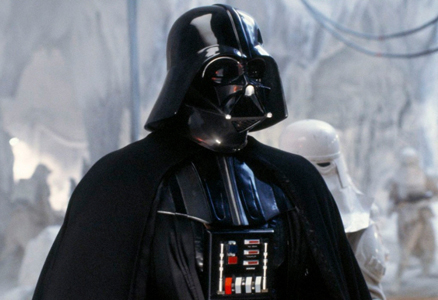
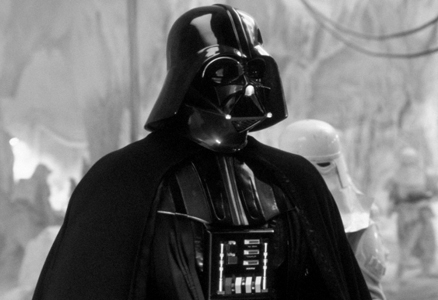
Cálculo B, R e image greyscale

diff --git a/main.js b/main.js
@@ -1,4 +1,7 @@
 // init
+var width = 438;
+var height = 300;
+
 var mainCanvas = document.getElementById('mainCanvas');
 var mainCtx = mainCanvas.getContext('2d');
 var shadowCanvas = document.getElementById('shadowCanvas');
@@ -6,6 +9,10 @@ var shadowCtx = shadowCanvas.getContext('2d');
 
 var imageObj = new Image();
 var $message = document.getElementById('message');
+
+var $histBack = document.getElementById('histBack');
+var $histFore = document.getElementById('histFore');
+
 
 // controle
 const l = 30; // lado do quadrado de de inclusão
@@ -20,7 +27,6 @@ imageObj.onload = function() {
 };
 
 // events
-
 window.addEventListener("load", function() {
 	updateMessage();
 });
@@ -28,19 +34,24 @@ window.addEventListener("load", function() {
 mainCanvas.addEventListener('mousemove', function(evt) {
     marcaregiao(mainCanvas, mainCtx, evt);
 
-    // Teste selação de pixel de shadow e de posição do mouse de maincanvas
-	var mousePos = getMousePos(mainCanvas, evt);
-    var x = parseInt(mousePos.x);
-    var y = parseInt(mousePos.y);
-
-	var c = getColor(x, y, shadowCtx);
-	document.body.style.background = 'rgba('+c[0]+','+c[1]+','+c[2]+',1)';
+ //    // Teste selação de pixel de shadow e de posição do mouse de maincanvas
+	// var mousePos = getMousePos(mainCanvas, evt);
+ //    var x = parseInt(mousePos.x);
+ //    var y = parseInt(mousePos.y);
+	// var c = getColor(x, y, shadowCtx);
+	// document.body.style.background = 'rgba('+c[0]+','+c[1]+','+c[2]+',1)';
 
 }, false);
 
 mainCanvas.addEventListener('click', function() {
-   ativaMarcaRegiao = !ativaMarcaRegiao; 
+   ativaMarcaRegiao = !ativaMarcaRegiao;
+
+	if(!ativaMarcaRegiao) {
+		execCut();
+	}
+
 });
+
 
 document.addEventListener('keyup', function(e) {
 	var c = e.which;
@@ -86,9 +97,9 @@ function drawCircle(x, y, ctx) {
     ctx.beginPath();
     ctx.rect(x-l/4, y-l/4, l/2, l/2);
     if(marcarBackground) {
-    	ctx.fillStyle = "red";
+    	ctx.fillStyle = "blue";
     } else if(marcarForeground) {
-    	ctx.fillStyle = "green";
+    	ctx.fillStyle = "red";
     }
     ctx.fill();
 }
@@ -96,10 +107,10 @@ function drawCircle(x, y, ctx) {
 function updateMessage() {
 	if(marcarForeground) {
 		$message.innerHTML = 'Seleção FOREGROUND';
-		$message.style.background = 'green';	
+		$message.style.background = 'red';	
 	} else if(marcarBackground) {
 		$message.innerHTML = 'Seleção BACKGROUND';
-		$message.style.background = 'red';	
+		$message.style.background = 'blue';	
 	} else {
 		$message.innerHTML = '';
 	} 
@@ -121,9 +132,9 @@ var M = (function() {
 		this._m[x][y] = 1;
 	}
 
-	M.prototype.remPixel = function(x, y) {
-	    if(this._m[x][y] !== undefined) this._m[x][y] = 0;
-	}
+	// M.prototype.remPixel = function(x, y) {
+	//     if(this._m[x][y] !== undefined) this._m[x][y] = 0;
+	// }
 
 	M.prototype.getPixel = function(x, y) {
 		if(this._m[x] === undefined 
@@ -134,6 +145,31 @@ var M = (function() {
 	}
 
 	return M;
+
+})();
+
+// Matrix 4-d. Verifica conexão em dois pontos
+var M4 = (function() {
+
+	function M4() {
+		this._m4 = [];
+	}
+
+	M4.prototype.addPair = function(xa, ya, xb, yb) {
+	    if(this._m4[xa] == undefined) this._m4[xa] = {};
+	    if(this._m4[xa][ya] == undefined) this._m4[xa][ya] = new M();
+	    this._m4[xa][ya].addPixel(xb, yb);
+	}
+
+	M4.prototype.getPair = function(xa, ya, xb, yb) {
+		if(this._m4[xa] === undefined 
+			|| this._m4[xa][ya] === undefined) {
+			return 0;
+		}
+		return this._m4[xa][ya].getPixel(xb, yb);
+	}
+
+	return M4;
 
 })();
 
@@ -168,5 +204,137 @@ function addRect(x, y, isObj) {
 function getColor(x, y, ctx) {
   var pixel = ctx.getImageData(x, y, 1, 1);
   var data = pixel.data;
-  return [data[0], data[1], data[2], (data[3] / 255)]
+  // Considera imagem grey scale
+  // return [data[0], data[1], data[2], (data[3] / 255)]
+  return data[0];
 }
+
+// Segmentação...
+
+function execCut() {
+
+	//// Geração histogramas...
+	histBack = [];
+	histFore = [];
+	for(i = 0; i < width; i++) {
+		for(j = 0; j < height; j++) {
+			var c = getColor(i, j, shadowCtx);
+			if(MB.getPixel(i, j)) {
+				if(histBack[c] === undefined) histBack[c] = 0;
+				histBack[c] += 1;
+			}
+			if(MF.getPixel(i, j)) {
+				if(histFore[c] === undefined) histFore[c] = 0;
+				histFore[c] += 1; 
+			}
+		}
+	}
+	// add zeros para frequencia nao existentes
+	for(i = 0; i < 256; i++) {
+		if(histBack[i] === undefined) histBack[i] = 0;
+		if(histFore[i] === undefined) histFore[i] = 0;
+	}
+	
+	// atualiza view de histograma	
+	$histBack.innerHTML = histBack.join(',');
+	$histFore.innerHTML = histFore.join(',');
+	updateHist();
+
+	// soma (qtd amostras)
+	somaBack = histBack.reduce((a,b)=>a+b, 0);
+	somaFore = histFore.reduce((a,b)=>a+b, 0);
+		
+	// R("obj") - penalties para obj
+	function RFore(v) {
+		return 1 - Math.exp( -1 * (histFore[v] / somaFore) );
+	}
+
+	// R("bkg") - penalties para "bkg"
+	function RBack(v) {
+		return 1 - Math.exp( -1 * (histBack[v] / somaBack) );
+	}
+	// Bpq - boundary penalty
+	function B(p, q) {
+		// Penalização linear independente do par de pixel
+		// deveria: penalizar mais por descontinuidade em 
+		// pixel semelhantes (ruído) e penalizar menos por
+		// descontinuidades em pixel diferentes
+		return Math.exp( -1 * Math.abs(p-q)/255 );
+	}
+
+	//// Vértices....
+
+	var V = []; // type: S, T ou p | type p com posições x,y e valor v
+
+	// S - nodo source 
+	V.push({ type: 'S'});
+	// T - nodo sink
+	V.push({ type: 'T'});
+	// 1 nodo para pixel
+	for(i = 0; i < width; i++) {
+		for(j = 0; j < height; j++) {
+			V.push({
+				type: 'p',
+				x: i,
+				y: j,
+				v: getColor(i, j, shadowCtx),			
+			})
+		}
+	}
+	
+	//// Arestas... 
+
+	var N = new M4();
+	
+	// pares {p, q} 8-neighborhood
+	// Conexões abaixo e acima, ou seja, entre 
+	// (i,j), (i+1,j) e (i, j), (i, j+1)
+	console.log(width, height)
+	for(i = 0; i < width; i++) {
+		for(j = 0; j < height; j++) {
+			// Última link somente com conexões horizontais
+			if(i < height-1) {
+				N.addPair(i, j, i+1, j);
+				count++;
+			}
+			// Última coluna somente com conexões verticais
+			if(j < width-1) {
+				N.addPair(i, j, i, j+1);			
+			}
+		}
+	}
+
+	// Entre pixel e S e entre pixel e S
+
+
+
+
+
+	var Vsize = V.length;
+	// var soma = 0;
+	// for(i = 0; i < Vsize; i++) {
+	// 	for(j = 0; j < Vsize; j++) {
+	// 		if(V[i][j].type == 'p') {
+	// 			soma += V[i][j].v;
+	// 		}
+	// 	}
+	// }
+
+	// console.log(soma);
+	console.log(V);
+
+
+}
+
+// JQUERY CHARTs
+function updateHist() {
+  $(".bar").peity("bar", {
+    height: "100px",
+    width: "400px",
+    fill: function(_, i, all) {
+      var g = parseInt((i / all.length) * 255)
+      return "rgb("+g+","+g+", "+g+")"
+    }
+  })
+}
+

diff --git a/index.html b/index.html
@@ -3,13 +3,38 @@
   <head>
     <meta charset="utf-8">
     <link rel="stylesheet" href="./style.css">
+    <!-- Para plot dos gráficos -->
+    <script type="text/javascript" src="https://cdn.jsdelivr.net/npm/jquery@3.3.1/dist/jquery.min.js"></script>
+    <script type="text/javascript" src="https://benpickles.github.io/peity/jquery.peity.min.js"></script>
   </head>
   <body>
-    <div id='message'>Seleção BACKGROUND</div>
+    <div id='message'></div>
     <!-- Para desenho e sejeção de BACKGROUND e FOREGROUND -->
     <canvas id="mainCanvas" width="438" height="300"></canvas>
     <!-- Não altera imagem. Usado para consulta do valor do pixel -->
     <canvas id="shadowCanvas" width="438" height="300"></canvas>
+    
+    <div class="hist">
+      <div class="bar" id='histBack'></div>
+      <br>
+      Background
+    </div>
+    <div class="hist">
+      <div class="bar" id='histFore'></div>
+      <br>
+      Foreground
+    </div>
+
+    <p style="max-width: 400px;background: #fdfdfd;padding: 12px;bottom: 0px;position: absolute;" >
+      <b>
+        Pressione 'b' para background e 'f' para foreground. 
+        Clique e solte para iniciar uma seleção. Clique e solte novamente
+        para finalizar uma seleção.
+      </b>
+    </p>
+
+
   </body>
   <script type="text/javascript" src="./main.js"></script>
+
 </html>
